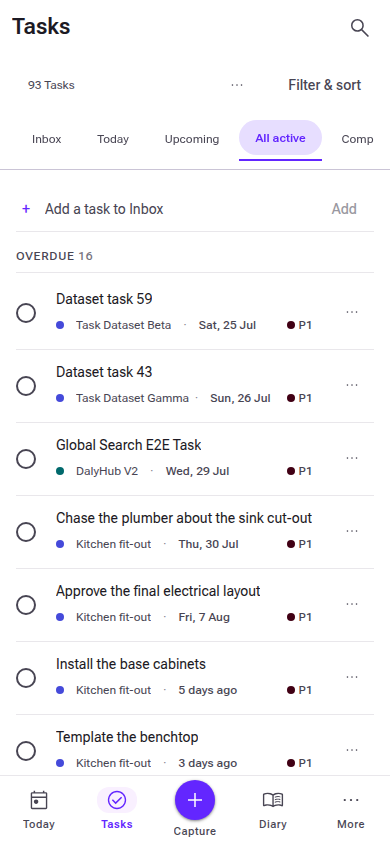
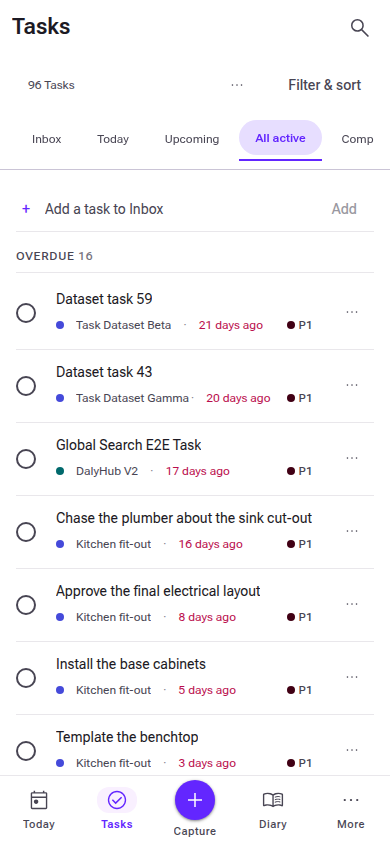
DS-04: bound the past in WORDS, and let the row's colour cascade
Two defects the side-by-side pass found, both mine, neither visible as a
defect until it was looked for.

The trigger reset set its own `color`, and the urgency class lands on the
field's WRAPPER — so the trigger won, and every overdue date in the list
rendered in ordinary text. The one place on a task row where colour is
doing real work had lost it. The trigger inherits now; the muted tone comes
from the cell, so the default and the exception cascade from one place.

Bounding the past with an ABSOLUTE date was the wrong fix. An absolute date
says nothing about having passed, so in an ungrouped list the only thing
left saying a task had slipped was its colour — which §15 forbids as the
sole carrier. The ladder is now the one `relativePastLabel` already uses on
Today: "Yesterday", "20 days ago", "3 months ago", "Over a year ago". One
vocabulary for how long ago something was, bounded at every distance and in
words at every distance.

Overdue also lost its weight step. Inside a bucket called Overdue every
date in the column carries the colour, and colour plus bold on every row of
a band is the shout "calm over urgent" exists to prevent.

Claude-Session: https://claude.ai/code/session_01NsxxachQjUh8V4BXbRb1c5

diff --git a/app/shared/task-record/task-view.ts b/app/shared/task-record/task-view.ts
@@ -461,20 +461,27 @@ export type RelativeDateUrgency = "overdue" | "today" | "soon" | "future";
  * UIX-01 design: the near days get their names, and only the far ones get a
  * date.
  *
- *     -7 …      Thu, 12 Jun       (further back than a week — an absolute date)
- *     -6 … -2   3 days ago        (this past week — the elapsed count)
+ *     beyond    Over a year ago
+ *     -365…-31  3 months ago
+ *     -30 … -2  20 days ago
  *     -1        Yesterday
  *      0        Today
- *     +1        Tomorrow
+ *      +1       Tomorrow
  *     +2 … +6   Thu               (this coming week — the weekday alone)
  *     beyond    Thu, 12 Jun       (and "Thu, 12 Jun 2027" across a year)
  *
- * DS-04 bounded the PAST at a week, because the unbounded form was the single
- * worst-reading thing on the Tasks screen: a column of "20 days ago", "35 days
- * ago", "9722 days ago" is arithmetic the reader has to undo to learn anything,
- * it is longer than the date it replaces, and it grows without limit. Inside a
- * week "3 days ago" is genuinely faster than a date; past that a date is the
- * shorter and more useful string, and it is what the concept draws.
+ * DS-04 BOUNDED the past, and deliberately did not make it absolute.
+ *
+ * The unbounded form was the worst-reading thing on the Tasks screen — a column
+ * ending in "9722 days ago" is arithmetic the reader has to undo, and it grows
+ * without limit. The first fix was to print a date past a week, and that was
+ * wrong for a reason a screenshot does not show: an absolute date says nothing
+ * about having PASSED, so in an ungrouped list the only thing left saying a task
+ * had slipped was the colour — which §15 forbids as the sole carrier.
+ *
+ * The ladder above is the one `relativePastLabel` already uses on Today, so the
+ * product has ONE vocabulary for how long ago something was rather than two. It
+ * is bounded at every distance, and it keeps the state in words.
  *
  * The `urgency` alongside is what a surface tints with. It is never the only
  * signal: the label itself SAYS the state ("Yesterday", "Today"), which is why
@@ -499,21 +506,12 @@ export function relativeCalendarDate(
   if (days === 0) return { label: "Today", urgency: "today" };
   if (days === 1) return { label: "Tomorrow", urgency: "soon" };
   if (days === -1) return { label: "Yesterday", urgency: "overdue" };
-  if (days < -1 && days >= -6) {
-    return { label: `${-days} days ago`, urgency: "overdue" };
+  if (days < -1) {
+    return { label: elapsedPhrase(-days), urgency: "overdue" };
   }
   const weekday = calendarWeekday(value);
   if (weekday === null) {
-    return { label: absolute, urgency: days < 0 ? "overdue" : "future" };
-  }
-  // Further back than a week: the same absolute form the far FUTURE takes, so
-  // one column reads one way. The urgency is still `overdue` — the colour and
-  // the group heading carry the state that the words no longer restate.
-  if (days < -6) {
-    return {
-      label: absoluteWithWeekday(absolute, weekday, value, todayIso),
-      urgency: "overdue",
-    };
+    return { label: absolute, urgency: "future" };
   }
   // Inside the coming week the weekday alone is unambiguous and shortest.
   if (days <= 6) return { label: weekday, urgency: "soon" };
@@ -522,6 +520,23 @@ export function relativeCalendarDate(
     label: absoluteWithWeekday(absolute, weekday, value, todayIso),
     urgency: "future",
   };
+}
+
+/**
+ * "20 days ago" / "3 months ago" / "Over a year ago" — the elapsed phrase.
+ *
+ * The SAME ladder `relativePastLabel` uses on Today (`app/modules/today/day/
+ * day-view.ts`), so the product has one answer to "how long ago was that?".
+ * Bounded at every distance: a task whose due date is a seeded 1 Jan 2000 reads
+ * "Over a year ago" rather than counting nine thousand days.
+ */
+function elapsedPhrase(days: number): string {
+  if (days <= 30) return `${days} days ago`;
+  if (days <= 365) {
+    const months = Math.round(days / 30);
+    return months === 1 ? "1 month ago" : `${months} months ago`;
+  }
+  return "Over a year ago";
 }
 
 /**

diff --git a/app/styles/task-list.css b/app/styles/task-list.css
@@ -618,7 +618,17 @@
   background: transparent;
   font-size: var(--dh-text-meta-size);
   line-height: var(--dh-text-meta-line-height);
-  color: var(--dh-color-text-muted);
+  /*
+   * INHERIT the colour, never set it.
+   *
+   * The urgency class (`dh-task-date--overdue`) lands on the field's WRAPPER,
+   * and the trigger is inside it — so a trigger that sets its own colour wins
+   * over the ancestor and a slipped date renders in ordinary text. It did:
+   * every overdue date in the list lost its colour, which is the one place on
+   * the row where colour is doing real work. The muted tone comes from the CELL
+   * instead, so both the default and the exception cascade from one place.
+   */
+  color: inherit;
   justify-content: flex-start;
   text-align: start;
 }
@@ -635,7 +645,6 @@
   .dh-tasklist .dh-inline-edit__trigger:hover,
   .dh-tasklist .dh-inline-select__trigger:hover {
     background: var(--dh-color-surface-quiet);
-    color: var(--dh-color-text);
   }
 }
 
@@ -737,9 +746,17 @@
   white-space: nowrap;
 }
 
+/*
+ * Overdue takes the colour and NOT a weight step.
+ *
+ * Inside a bucket called Overdue every date in the column carries it, and
+ * colour plus a weight bump on every row of a band is the shout §4 exists to
+ * prevent. The words already say it — "Yesterday", "20 days ago", "Over a year
+ * ago" — so the colour is reinforcement, which is the only thing it is allowed
+ * to be (AGENTS.md §15).
+ */
 .dh-tasklist .dh-task-date--overdue {
   color: var(--dh-color-overdue);
-  font-weight: var(--dh-text-label-weight);
 }
 
 .dh-tasklist .dh-task-date--today {

diff --git a/docs/design/DS_04_TASKS_REDESIGN_2026_08.md b/docs/design/DS_04_TASKS_REDESIGN_2026_08.md
@@ -25,7 +25,7 @@ Read off the concept's Tasks panel rather than inferred:
 | Separation | A hairline between rows, nothing else |
 | Row | drag handle · circle checkbox · title · project (dot + name) · due (plain text) · priority · status · `⋯` |
 | Project | A ~6px coloured **dot** and the name. No tile, no border, no chevron |
-| Due | `Today`, `21 May` — plain, absolute past the near days |
+| Due | `Today`, `21 May` — plain text, never a chip |
 | Header band | Two bands only: title + controls, then quiet text tabs with a purple underline |
 | Purple | The one primary button, the current tab's underline, selected state. Nothing else |
 | Phone | Two-line row — title on line 1; `● Project` and priority on line 2 |
@@ -39,7 +39,7 @@ Each was read off `assets/ds-04/baseline/`, not asserted.
 | 1 | Rows sit in a white 16px-radius bordered panel on a grey page | Rows on a white page, hairlines only |
 | 2 | No column structure — a ragged right-aligned metadata run, no header | A labelled column grid |
 | 3 | Project drawn as a 24px bordered rounded tile + name + chevron | A coloured dot and the name |
-| 4 | Dates relative and unbounded, in crimson — "20 days ago", "9722 days ago" | `Today` / `Sat, 25 Jul`; relative only inside a week |
+| 4 | Dates relative and UNBOUNDED, in bold crimson — "20 days ago", "9722 days ago" | Bounded at every distance, and the colour without the weight bump |
 | 5 | Quick capture a 60px filled card with two permanent buttons | The next row: same inset, same height, a hairline |
 | 6 | 600-weight titles competing with equally saturated pills | Title at row weight; hierarchy from quieter metadata |
 | 7 | Group headings uppercase crimson (`OVERDUE 15`) above every band | Muted small-caps heading, a figure, a rule |
@@ -59,7 +59,7 @@ hovered one.
 | 1 | Cardified list → rows on the page | `TaskRow`/`TaskList`; `.dh-collection--tasks` takes `--dh-color-surface` | `final/tasks-1440-light.png` | ✅ |
 | 2 | No columns → a shared column grid | `--taskrow-columns` declared once on `.dh-tasklist`, inherited by header + rows | `final/tasks-1440-light.png` | ✅ |
 | 3 | Project tile → identity dot | `.dh-task-parent__mark` becomes an 8px dot on `currentColor`; glyph dropped | `final/task-row-normal.png` | ✅ |
-| 4 | "20 days ago" → `Sat, 25 Jul` | `relativeCalendarDate` bounds the past at a week | `final/tasks-1440-light.png` | ✅ |
+| 4 | "9722 days ago" → "Over a year ago" | `relativeCalendarDate` adopts Today's bounded ladder; overdue keeps the colour, loses the weight | `final/tasks-1440-light.png` | ✅ |
 | 5 | Capture card → capture row | quickadd takes the row inset, height and hairline; buttons on hover/focus | `final/quick-capture-desktop.png` | ✅ |
 | 6 | Heavy titles → row weight, quiet metadata | `--dh-text-row-*` on the title, `--dh-text-meta-*` muted on cells | `final/task-row-normal.png` | ✅ |
 | 7 | Crimson group heading → calm | `TaskGroup`: muted small caps, tabular count, hairline | `final/tasks-1440-light.png` | ✅ |

diff --git a/docs/decisions/ARCHITECTURE_DECISIONS.md b/docs/decisions/ARCHITECTURE_DECISIONS.md
@@ -3157,7 +3157,11 @@ Separately, the roadmap's SET-03 promised an owner-facing *Account & security* s
 
   Two consequences worth stating. The priority indicator's `color` is deliberately NOT reset by the list — the dot is `background: currentColor`, so muting the whole indicator turned four priorities into four identical grey dots and cost the list the one signal a triaged list is scanned by; only the two-character tag is muted. And the completion ring no longer takes the overdue colour: the date says "Yesterday" and the heading above says Overdue, so a third and larger colour-only restatement on the control that FINISHES the task is alarm rather than information, on a product whose first principle is calm over urgent.
 
-- **Decision 6 — `relativeCalendarDate` bounds the PAST at a week.** `-6…-2` keep "3 days ago"; beyond that the value takes the same absolute form the far future already took. The unbounded form was the worst-reading thing on the screen — a column of "20 days ago", "35 days ago", "9722 days ago" is arithmetic the reader has to undo, longer than the date it replaces, and unbounded by construction. The urgency is unchanged, so the colour and the group heading still carry the state the words stopped restating.
+- **Decision 6 — `relativeCalendarDate` BOUNDS the past, and keeps it in words.** The unbounded form was the worst-reading thing on the screen: a column ending in "9722 days ago" is arithmetic the reader has to undo, and it grows without limit.
+
+  The first attempt printed an absolute date past a week, and it was wrong for a reason no screenshot shows: **an absolute date says nothing about having PASSED**, so in an ungrouped list the only thing left saying a task had slipped was its colour — which AGENTS.md §15 forbids as the sole carrier. The ladder is therefore the one `relativePastLabel` already uses on Today — "Yesterday", "20 days ago" (≤30), "3 months ago" (≤365), "Over a year ago" — so the product has ONE answer to "how long ago was that?" rather than two, bounded at every distance and in words at every distance.
+
+  The overdue treatment lost its weight step at the same time. Inside a bucket called Overdue every date in the column carries the colour, and colour plus a bold weight on every row of a band is the shout "calm over urgent" exists to prevent. The words say it; the colour reinforces it.
 
 - **Decision 7 — the bounded option set gets an ESCAPE HATCH rather than a second pattern.** `InlineSelectField` gained `searchAction`: an ordinary item in the same roving-focus list, `role="menuitem"` because it is a command rather than a value, which hands off to the shared searchable picker over the whole workspace.
 

diff --git a/docs/development/TASKS_MODULE.md b/docs/development/TASKS_MODULE.md
@@ -1975,8 +1975,11 @@ The order is the concept's, and the priority order is deliberate:
 2. **title** — the only flexible column (`minmax(0, 1fr)`), so a long title
    truncates inside its track rather than pushing the date column off the edge;
 3. **project** — an identity DOT and the name. Never a bordered tile;
-4. **due date** — ordinary text (`Today`, `Yesterday`, `Sat, 25 Jul`), taking the
-   overdue colour only when it has actually slipped;
+4. **date** — ordinary text, in the bounded vocabulary Today already uses
+   (`Today`, `Yesterday`, `20 days ago`, `3 months ago`, `Over a year ago`,
+   `Thu, 12 Jun`), taking the overdue colour — and no weight step — when it has
+   actually slipped. The cell shows the DUE date, or the planned date in italic
+   when there is no due date;
 5. **priority** — the priority's own coloured dot plus `P1`…`P4`. No container;
 6. **status** — the ONE surviving pill, drawn only for the six display states
    nothing else on the row expresses (Completed, Cancelled, Waiting, On hold,

diff --git a/docs/design/assets/ds-04/COMPARISON.md b/docs/design/assets/ds-04/COMPARISON.md
@@ -29,8 +29,10 @@ the real dev server and the real seeded workspace.
   replaced a right-aligned metadata run. Dates and project names now start on the
   same x down the whole list.
 - **Project** is an identity dot and a name, not a 24px bordered tile with a
-  chevron. **Due** is `Sat, 25 Jul` in ordinary text, not `20 days ago` in
-  crimson. **Priority** is the priority's own dot and its tag, with no container.
+  chevron. **Date** is ordinary text in a bounded vocabulary —
+  `20 days ago`, `3 months ago`, `Over a year ago` — rather than an unbounded
+  `9722 days ago`, and overdue takes the colour without also taking a weight
+  step. **Priority** is the priority's own dot and its tag, with no container.
 - The **status pill is the only bounded coloured container left on a row.**
 - The header band lost a line: the count sits beside the title instead of under
   it, which is ~30px of the calmest band on the page returned to the list.

diff --git a/CHANGELOG.md b/CHANGELOG.md
@@ -28,9 +28,10 @@ Priority · Status**, with the column names above them. Dates line up, projects
 line up, and about a third more of your list fits on a laptop screen.
 
 **Rows say less, and mean more.** A project is a small coloured dot and its
-name instead of a bordered tile. A due date reads `Today`, `Yesterday` or
-`Sat, 25 Jul` in ordinary text instead of `20 days ago` in red — the count-up
-went on forever and got harder to read the further back it went. Priority is a
+name instead of a bordered tile. A date that has passed still says so in
+words — `Yesterday`, `20 days ago`, `3 months ago` — but it no longer counts
+up forever: anything older than a year now reads `Over a year ago` instead of
+`9722 days ago`, and it is coloured without also being bold. Priority is a
 coloured dot and `P1`. The only coloured pill left on a row is the status, and
 only when the status says something the rest of the row does not.
 
